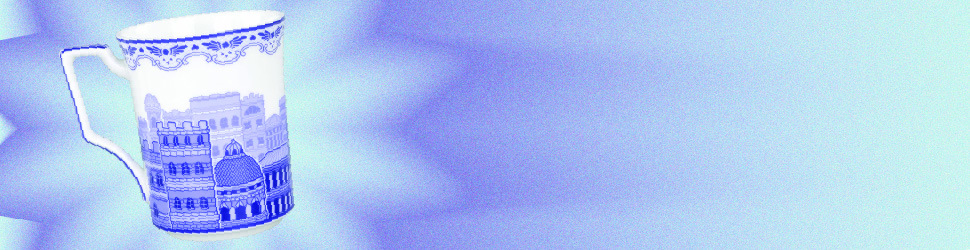
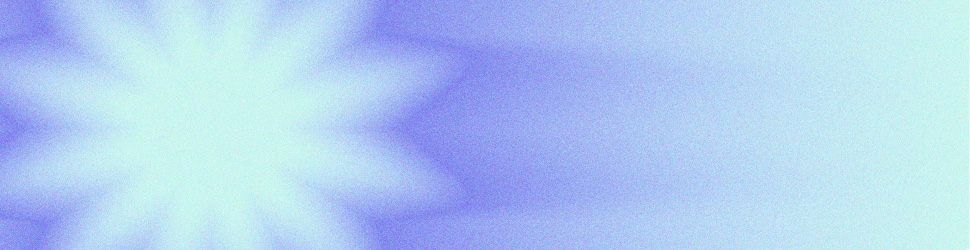
Add files via upload

diff --git a/css/ad.css b/css/ad.css
@@ -13,6 +13,16 @@ body {
 	background: url("../images/background.jpg") no-repeat center center fixed;
 	background-size: frame;
 }
+.mug {
+	width: 350px;
+	height: 250px;
+	background: url("../images/mug.png") no-repeat center center fixed;
+	background-size: 85%;
+	rotate: -10deg;
+	position: absolute;
+	top: 355px;
+	left: 400px;
+}
 
 .text {
 	width: 570px;
@@ -31,7 +41,6 @@ body {
 	font-family: 'Handjet';
 	src: url(../fonts/Handjet-VariableFont_ELGR,ELSH,wght.ttf) format('ttf');
 	font-weight: 100 900;
-	font-element-shape; 0 16;
 	font-style: normal;
 }
 
@@ -39,7 +48,7 @@ body {
 	font-family: 'Handjet';
 	color: midnightblue;
 	font-size: 70px;
-	font-weight: 600;
+	font-variation-settings: "wght" 600;
 	text-rendering: geometricPrecision;
 	letter-spacing: 0.3px;
 	left: 60px;
@@ -51,7 +60,7 @@ body {
 	color: aliceblue;
 	background-color: mediumslateblue;
 	font-size: 70px;
-	font-weight: 700;
+	font-variation-settings: "wght" 900;
 	text-rendering: geometricPrecision;
 	letter-spacing: 0.3px;
 	left: 60px;

diff --git a/index.html b/index.html
@@ -13,7 +13,7 @@
 	</head>
 
 	<body>
-
+	<div class="mug"></div>
 		<div class="frame">
 
 			<div class="text">
